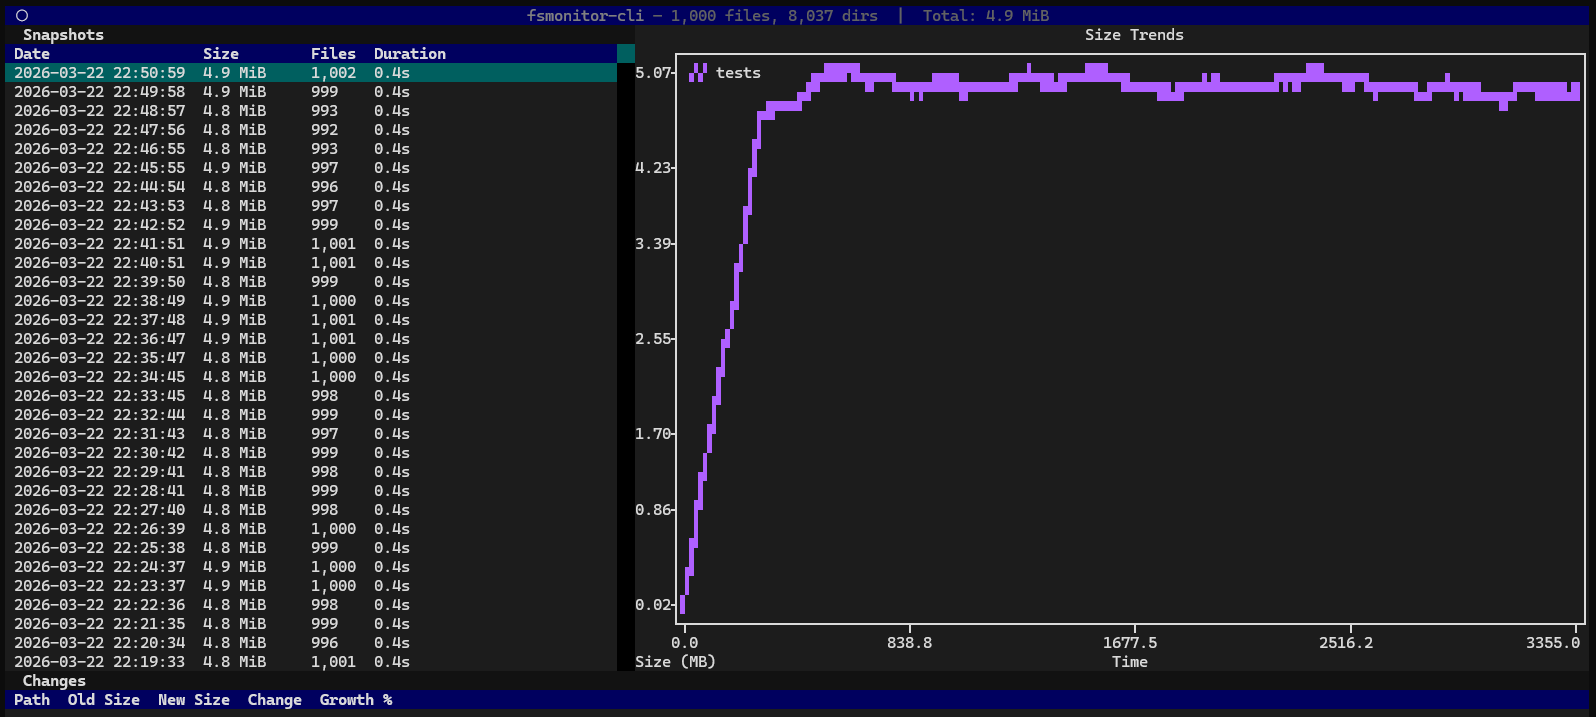
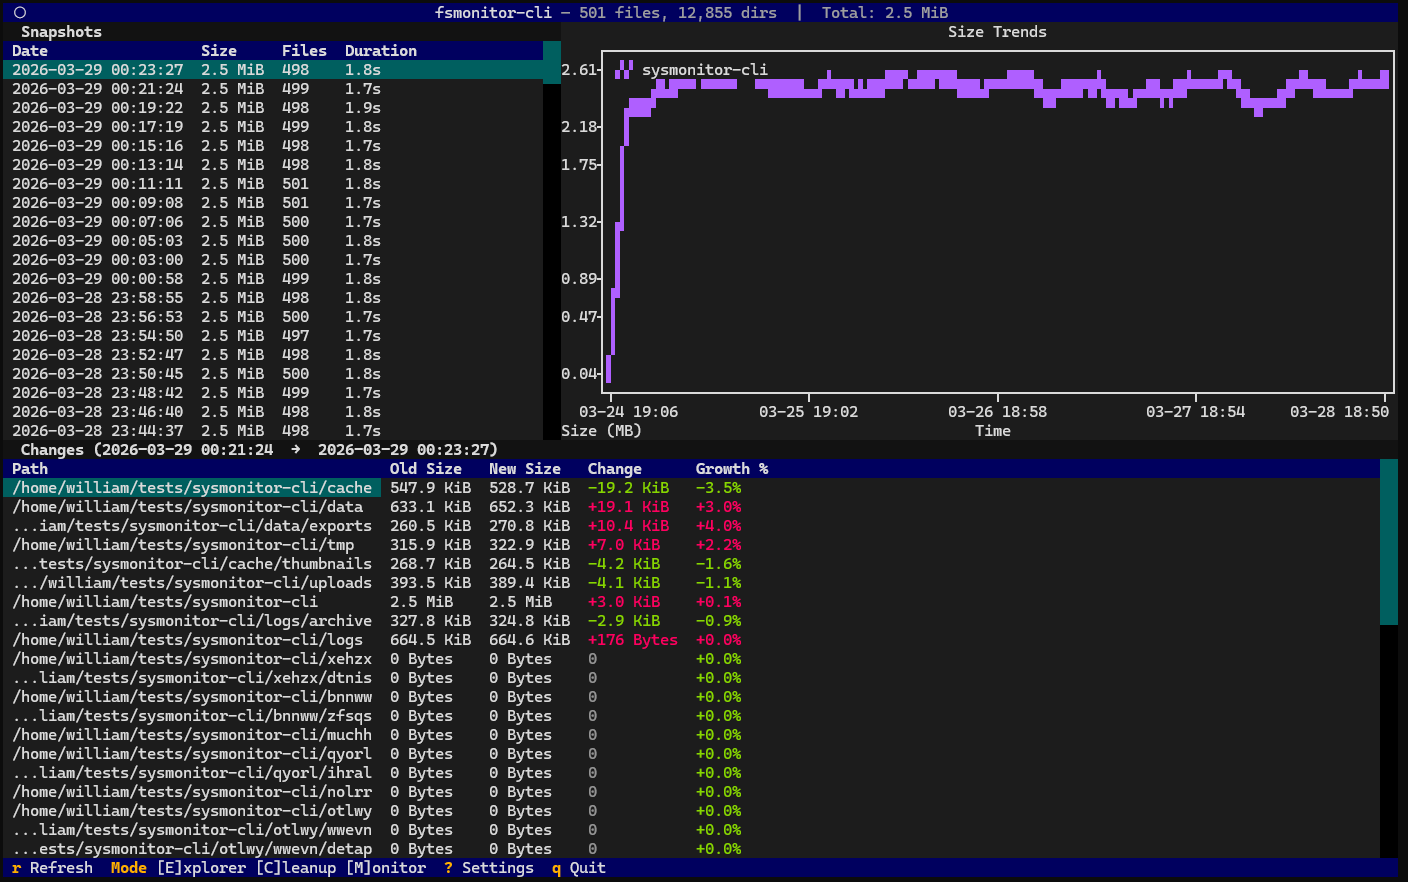
Update docs for demo images

Changed region(s): [[0.0, 0.0, 1.0, 1.0], [0.8125, 0.8591, 0.875, 0.9205], [0.5625, 0.8591, 0.5938, 0.9205]]

diff --git a/README.md b/README.md
@@ -3,11 +3,8 @@
 Interactive terminal disk usage explorer built with Python and [Textual](https://github.com/Textualize/textual).
 
 <p align="center">
-  <img src="docs/images/treemap.png" width="49%" alt="Explorer with treemap visualization" />
   <img src="docs/images/sunburst.png" width="49%" alt="Explorer with sunburst visualization" />
-</p>
-<p align="center">
-  <img src="docs/images/monitor.png" width="70%" alt="Monitor with snapshot history and size trends" />
+  <img src="docs/images/monitor.png" width="49%" alt="Monitor with snapshot history and size trends" />
 </p>
 
 ## Installation
